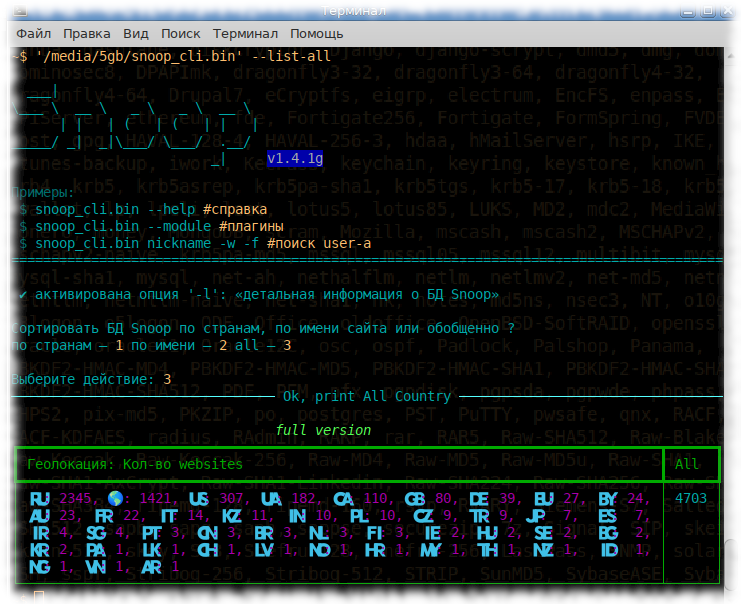
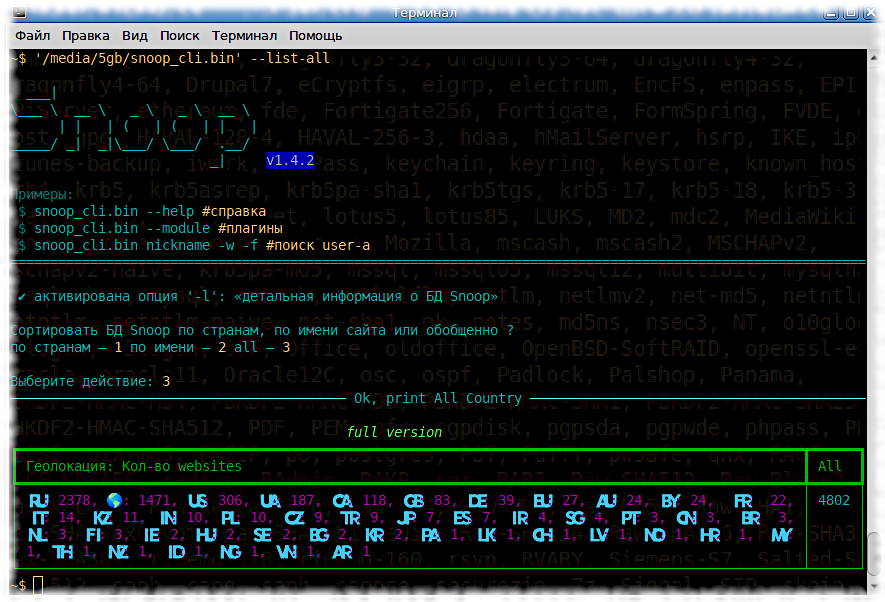
4.8K_sites

diff --git a/snoopbanner.py b/snoopbanner.py
@@ -75,7 +75,7 @@ Snoop в исполняемом виде (build-версия) предостав
 Всем студентам (независимо от учебного заведения или направления) ПО Snoop full version предоставляется с 50% скидкой.
 
 Snoop full version:
- * 4700+ Websites;
+ * 4800+ Websites;
  * поддержка локальной и онлайн database Snoop;
  * подключение к БД Snoop (online), которая расширяется/обновляется;
  * доступен автооптимизированный, быстрый и агрессивный режим поиска;
@@ -150,7 +150,7 @@ function bay() {document.write('\
 <p><span style="font-size:18px"><span style="color:#007500">Snoop full version:</span></span></p>\
 \
 <ul>\
-	<li><span style="font-size:18px"><span style="color:#007500">&nbsp;4700+ Websites;</span></span></li>\
+	<li><span style="font-size:18px"><span style="color:#007500">&nbsp;4800+ Websites;</span></span></li>\
 	<li><span style="font-size:18px"><span style="color:#007500">&nbsp;поддержка локальной и онлайн database Snoop;</span></span></li>\
 	<li><span style="font-size:18px"><span style="color:#007500">&nbsp;подключение к БД Snoop (online), которая расширяется/обновляется;</span></span></li>\
 	<li><span style="font-size:18px"><span style="color:#007500">&nbsp;доступен автооптимизированный, быстрый и агрессивный режим поиска;</span></span></li>\

diff --git a/README.md b/README.md
@@ -27,7 +27,7 @@ that is, it is available to the average user *(project creation date: February 1
 *(скачал софт, указал цель, получил результат).*  
 
 Сравнение индексаций БД-никнеймов подобных инструментов:  
-<a href="https://raw.githubusercontent.com/snooppr/snoop/master/websites.md" Target="_blank"><img src="https://img.shields.io/badge/Snoop-~4700+%20websites-success" width="50%" /></a>  
+<a href="https://raw.githubusercontent.com/snooppr/snoop/master/websites.md" Target="_blank"><img src="https://img.shields.io/badge/Snoop-~4800+%20websites-success" width="50%" /></a>  
 <img src="https://img.shields.io/badge/Whatsmyname-~600 websites-yellowgreen" width="25%" />  
 <img src="https://img.shields.io/badge/Sherlock-~400 websites-yellowgreen" width="20%" />  
 <img src="https://img.shields.io/badge/Spiderfoot-~350 websites-yellowgreen" width="20%" />  
@@ -49,7 +49,7 @@ Snoop for OS Windows and GNU/Linux
 
 **Snoop Local database**  
 <img src="https://raw.githubusercontent.com/snooppr/snoop/master/images/snoop_run.png" />  
-[Snoop full version database 4700+ websites ⚡⚡⚡](https://raw.githubusercontent.com/snooppr/snoop/master/websites.md "Database Snoop")  
+[Snoop full version database 4800+ websites ⚡⚡⚡](https://raw.githubusercontent.com/snooppr/snoop/master/websites.md "Database Snoop")  
 
 ## Релиз/Release
 <img src="https://raw.githubusercontent.com/snooppr/snoop/master/images/snoop box.png" width="35%" />  
@@ -161,7 +161,7 @@ search arguments:
                         Ник, содержащий в своем имени пробел, заключается в
                         кавычки
   --web-base, -w        Подключиться для поиска 'nickname' к
-                        динамично-обновляемой web_БД (4700+ сайтов)
+                        динамично-обновляемой web_БД (4800+ сайтов)
   --site , -s <site_name> 
                         Указать имя сайта из БД '--list-all'. Поиск
                         'nickname' на одном указанном ресурсе, допустимо

diff --git a/README.es.md b/README.es.md
@@ -27,7 +27,7 @@ es decir, está al alcance del usuario medio *(14 de febrero de 2020)*.
 *(descargué el software, especifiqué el objetivo, recibí los resultados).*  
 
 Comparación de indexaciones de bases de datos tales herramientas:  
-<a href="https://raw.githubusercontent.com/snooppr/snoop/master/websites.md" Target="_blank"><img src="https://img.shields.io/badge/Snoop-~4700+%20sitios web-success" width="50%" /></a>  
+<a href="https://raw.githubusercontent.com/snooppr/snoop/master/websites.md" Target="_blank"><img src="https://img.shields.io/badge/Snoop-~4800+%20sitios web-success" width="50%" /></a>  
 <img src="https://img.shields.io/badge/Whatsmyname-~600 sitios web-yellowgreen" width="25%" />  
 <img src="https://img.shields.io/badge/Sherlock-~400 sitios web-yellowgreen" width="20%" />  
 <img src="https://img.shields.io/badge/Spiderfoot-~350 sitios web-yellowgreen" width="20%" />  
@@ -49,7 +49,7 @@ Snoop para SO Windows y GNU/Linux
 
 **Snoop Local database**  
 <img src="https://raw.githubusercontent.com/snooppr/snoop/master/images/EN_DB.png" />  
-[Base de datos de la versión completa de Snoop Más de 4700+ sitios web ⚡⚡⚡](https://raw.githubusercontent.com/snooppr/snoop/master/websites.md "Database Snoop")  
+[Base de datos de la versión completa de Snoop Más de 4800+ sitios web ⚡⚡⚡](https://raw.githubusercontent.com/snooppr/snoop/master/websites.md "Database Snoop")  
 
 ## Liberar
 <img src="https://raw.githubusercontent.com/snooppr/snoop/master/images/snoop box.png" width="35%" />  
@@ -158,7 +158,7 @@ argumentos de búsqueda:
                         de varios nombres al mismo tiempo. Un apodo que contiene
                         un espacio en su nombre se escribe entre comillas
   --web-base, -w        Conéctese a una web_DB dinámicamente actualizada
-                        (más de 4700+ sitios) para buscar 'apodo'.
+                        (más de 4800+ sitios) para buscar 'apodo'.
                         En la versión de demostración, la función está deshabilitada
   --site , -s <site_name> 
                         Especifique el nombre del sitio de la base de datos '--list-all'.

diff --git a/README.fr.md b/README.fr.md
@@ -27,7 +27,7 @@ c'est-à-dire qu'il est disponible pour l'utilisateur moyen *(date de création 
 *(téléchargé le logiciel, précisé la cible, reçu les résultats).*  
 
 Comparaison des indexations de bases de données tels outils:  
-<a href="https://raw.githubusercontent.com/snooppr/snoop/master/websites.md" Target="_blank"><img src="https://img.shields.io/badge/Snoop-~4700+%20sites Internet-success" width="50%" /></a>  
+<a href="https://raw.githubusercontent.com/snooppr/snoop/master/websites.md" Target="_blank"><img src="https://img.shields.io/badge/Snoop-~4800+%20sites Internet-success" width="50%" /></a>  
 <img src="https://img.shields.io/badge/Whatsmyname-~600 sites Internet-yellowgreen" width="25%" />  
 <img src="https://img.shields.io/badge/Sherlock-~400 sites Internet-yellowgreen" width="20%" />  
 <img src="https://img.shields.io/badge/Spiderfoot-~350 sites Internet-yellowgreen" width="20%" />  
@@ -49,7 +49,7 @@ Snoop pour OS Windows et GNU/Linux
 
 **Base de données locale Snoop**  
 <img src="https://raw.githubusercontent.com/snooppr/snoop/master/images/EN_DB.png" />  
-[Base de données de la version complète de Snoop 4700+ sites Web ⚡⚡⚡](https://raw.githubusercontent.com/snooppr/snoop/master/websites.md "Database Snoop")  
+[Base de données de la version complète de Snoop 4800+ sites Web ⚡⚡⚡](https://raw.githubusercontent.com/snooppr/snoop/master/websites.md "Database Snoop")  
 
 ## Libérer
 <img src="https://raw.githubusercontent.com/snooppr/snoop/master/images/snoop box.png" width="35%" />  
@@ -160,7 +160,7 @@ search arguments:
                         charge. Les surnoms contenant un espace dans leur nom sont
                         entre guillemets
   --web-base, -w        Connectez-vous pour rechercher 'surnom' dans la base de
-                        données web mise à jour (plus de 4700+ sites Web). 
+                        données web mise à jour (plus de 4800+ sites Web). 
                         Dans la version de démonstration, la fonction est désactivée
   --site , -s <site_name> 
                         Spécifiez le nom du site à partir de la base de données

diff --git a/README.de.md b/README.de.md
@@ -27,7 +27,7 @@ das heißt, es steht dem durchschnittlichen Benutzer zur Verfügung *(14. Februa
 *(Software heruntergeladen, Ziel angegeben, Ergebnisse erhalten).*  
 
 Vergleich der Indizierung von Datenbank-Nicknames ähnlicher Tools:  
-<a href="https://raw.githubusercontent.com/snooppr/snoop/master/websites.md" Target="_blank"><img src="https://img.shields.io/badge/Snoop-~4700+%20websites-success" width="50%" /></a>  
+<a href="https://raw.githubusercontent.com/snooppr/snoop/master/websites.md" Target="_blank"><img src="https://img.shields.io/badge/Snoop-~4800+%20websites-success" width="50%" /></a>  
 <img src="https://img.shields.io/badge/Whatsmyname-~600 websites-yellowgreen" width="25%" />  
 <img src="https://img.shields.io/badge/Sherlock-~400 websites-yellowgreen" width="20%" />  
 <img src="https://img.shields.io/badge/Spiderfoot-~350 websites-yellowgreen" width="20%" />  
@@ -49,7 +49,7 @@ Snoop für Betriebssysteme Windows und GNU/Linux
 
 **Snoop lokale Datenbank**  
 <img src="https://raw.githubusercontent.com/snooppr/snoop/master/images/EN_DB.png" />  
-[Snoop-Vollversionsdatenbank mit über 4700+ Websites ⚡⚡⚡](https://raw.githubusercontent.com/snooppr/snoop/master/websites.md "Datenbank-Snoop")  
+[Snoop-Vollversionsdatenbank mit über 4800+ Websites ⚡⚡⚡](https://raw.githubusercontent.com/snooppr/snoop/master/websites.md "Datenbank-Snoop")  
 
 ## Freigeben
 <img src="https://raw.githubusercontent.com/snooppr/snoop/master/images/snoop box.png" width="35%" />  
@@ -160,7 +160,7 @@ search arguments:
                         der ein Leerzeichen in seinem Namen enthält, wird in
                         Anführungszeichen eingeschlossen
   --web-base, -w        Stellen Sie eine Verbindung zu einer dynamisch aktualisierten
-                        web_DB (über 4700+ Websites) her, um nach 'Spitzname'
+                        web_DB (über 4800+ Websites) her, um nach 'Spitzname'
                         zu suchen. In der Demoversion ist die Funktion deaktiviert
   --site , -s <site_name> 
                         Geben Sie den Site-Namen aus der Datenbank '--list-all' an.

diff --git a/README.cn.md b/README.cn.md
@@ -27,7 +27,7 @@ Snoop 项目是在没有考虑 NSA 和他们的朋友的意见的情况下开发
 *（下载软件，指定目标，收到结果）。*  
 
 数据库索引等工具的比较：  
-<a href="https://raw.githubusercontent.com/snooppr/snoop/master/websites.md" Target="_blank"><img src="https://img.shields.io/badge/Snoop-~4700+%20网站-success" width="50%" /></a>  
+<a href="https://raw.githubusercontent.com/snooppr/snoop/master/websites.md" Target="_blank"><img src="https://img.shields.io/badge/Snoop-~4800+%20网站-success" width="50%" /></a>  
 <img src="https://img.shields.io/badge/Whatsmyname-~600 网站-yellowgreen" width="25%" />  
 <img src="https://img.shields.io/badge/Sherlock-~400 网站-yellowgreen" width="20%" />  
 <img src="https://img.shields.io/badge/Spiderfoot-~350 网站-yellowgreen" width="20%" />  
@@ -49,7 +49,7 @@ Snoop 项目是在没有考虑 NSA 和他们的朋友的意见的情况下开发
 
 **探听本地数据库**  
 <img src="https://raw.githubusercontent.com/snooppr/snoop/master/images/EN_DB.png" />  
-[Snoop 完整版数据库 4700+ 个网站 ⚡⚡⚡](https://raw.githubusercontent.com/snooppr/snoop/master/websites.md "数据库探听")  
+[Snoop 完整版数据库 4800+ 个网站 ⚡⚡⚡](https://raw.githubusercontent.com/snooppr/snoop/master/websites.md "数据库探听")  
 
 ## 发布
 <img src="https://raw.githubusercontent.com/snooppr/snoop/master/images/snoop box.png" width="35%" />  
@@ -152,7 +152,7 @@ plugins arguments:
 
 search arguments:
   nickname              被通缉用户的昵称。 支持同时搜索多个名称。 名称中包含空格的昵称用引号引起来
-  --web-base, -w        连接以在更新的 web_DB（4700+ 多个网站）中搜索'昵称'。 在演示版本中，
+  --web-base, -w        连接以在更新的 web_DB（4800+ 多个网站）中搜索'昵称'。 在演示版本中，
                         该功能被禁用
   --site , -s <site_name> 
                         从数据库'--list-all'中指定站点名称。 在一个指定的资源上搜索'昵称'，

diff --git a/README.en.md b/README.en.md
@@ -27,7 +27,7 @@ that is, it is available to the average user *(project creation date: February 1
 *(downloaded the software, specified the goal, received the results).*  
 
 Comparison of indexations of databases such tools:  
-<a href="https://raw.githubusercontent.com/snooppr/snoop/master/websites.md" Target="_blank"><img src="https://img.shields.io/badge/Snoop-~4700+%20websites-success" width="50%" />  
+<a href="https://raw.githubusercontent.com/snooppr/snoop/master/websites.md" Target="_blank"><img src="https://img.shields.io/badge/Snoop-~4800+%20websites-success" width="50%" />  
 <img src="https://img.shields.io/badge/Whatsmyname-~600 websites-yellowgreen" width="25%" />  
 <img src="https://img.shields.io/badge/Sherlock-~400 websites-yellowgreen" width="20%" />  
 <img src="https://img.shields.io/badge/Spiderfoot-~350 websites-yellowgreen" width="20%" />  
@@ -49,7 +49,7 @@ Snoop for OS Windows and GNU/Linux
 
 **Snoop Local database**  
 <img src="https://raw.githubusercontent.com/snooppr/snoop/master/images/EN_DB.png" />  
-[Snoop Full version database 4700+ websites ⚡⚡⚡](https://raw.githubusercontent.com/snooppr/snoop/master/websites.md "Database Snoop")  
+[Snoop Full version database 4800+ websites ⚡⚡⚡](https://raw.githubusercontent.com/snooppr/snoop/master/websites.md "Database Snoop")  
 
 ## Release
 <img src="https://raw.githubusercontent.com/snooppr/snoop/master/images/snoop box.png" width="35%" />  
@@ -159,7 +159,7 @@ search arguments:
                         supported. Nicknames containing a space in their name
                         are enclosed in quotation marks
   --web-base, -w        Connect to search for 'nickname' to the updated web_DB
-                        (4700+ websites). In demo version the function is disabled
+                        (4800+ websites). In demo version the function is disabled
   --site , -s <site_name> 
                         Specify the name of the site from the database 
                         '--list-all'. Search for 'nickname' on one specified

diff --git a/README_android.md b/README_android.md
@@ -113,7 +113,7 @@ search arguments:
                         Ник, содержащий в своем имени пробел, заключается в
                         кавычки
   --web-base, -w        Подключиться для поиска 'nickname' к
-                        динамично-обновляемой web_БД (4700+ сайтов)
+                        динамично-обновляемой web_БД (4800+ сайтов)
   --site , -s <site_name> 
                         Указать имя сайта из БД '--list-all'. Поиск
                         'nickname' на одном указанном ресурсе, допустимо

diff --git a/README_android.en.md b/README_android.en.md
@@ -112,7 +112,7 @@ search arguments:
   --verbose, -v         When searching for 'nickname', print detailed
                         verbalization
   --web-base, -w        Connect to search for 'nickname' to the updated web_DB
-                        (4700+ websites). In demo version the function is disabled
+                        (4800+ websites). In demo version the function is disabled
   --site , -s <site_name> 
                         Specify the name of the site from the database 
                         '--list-all'. Search for 'nickname' on one specified
